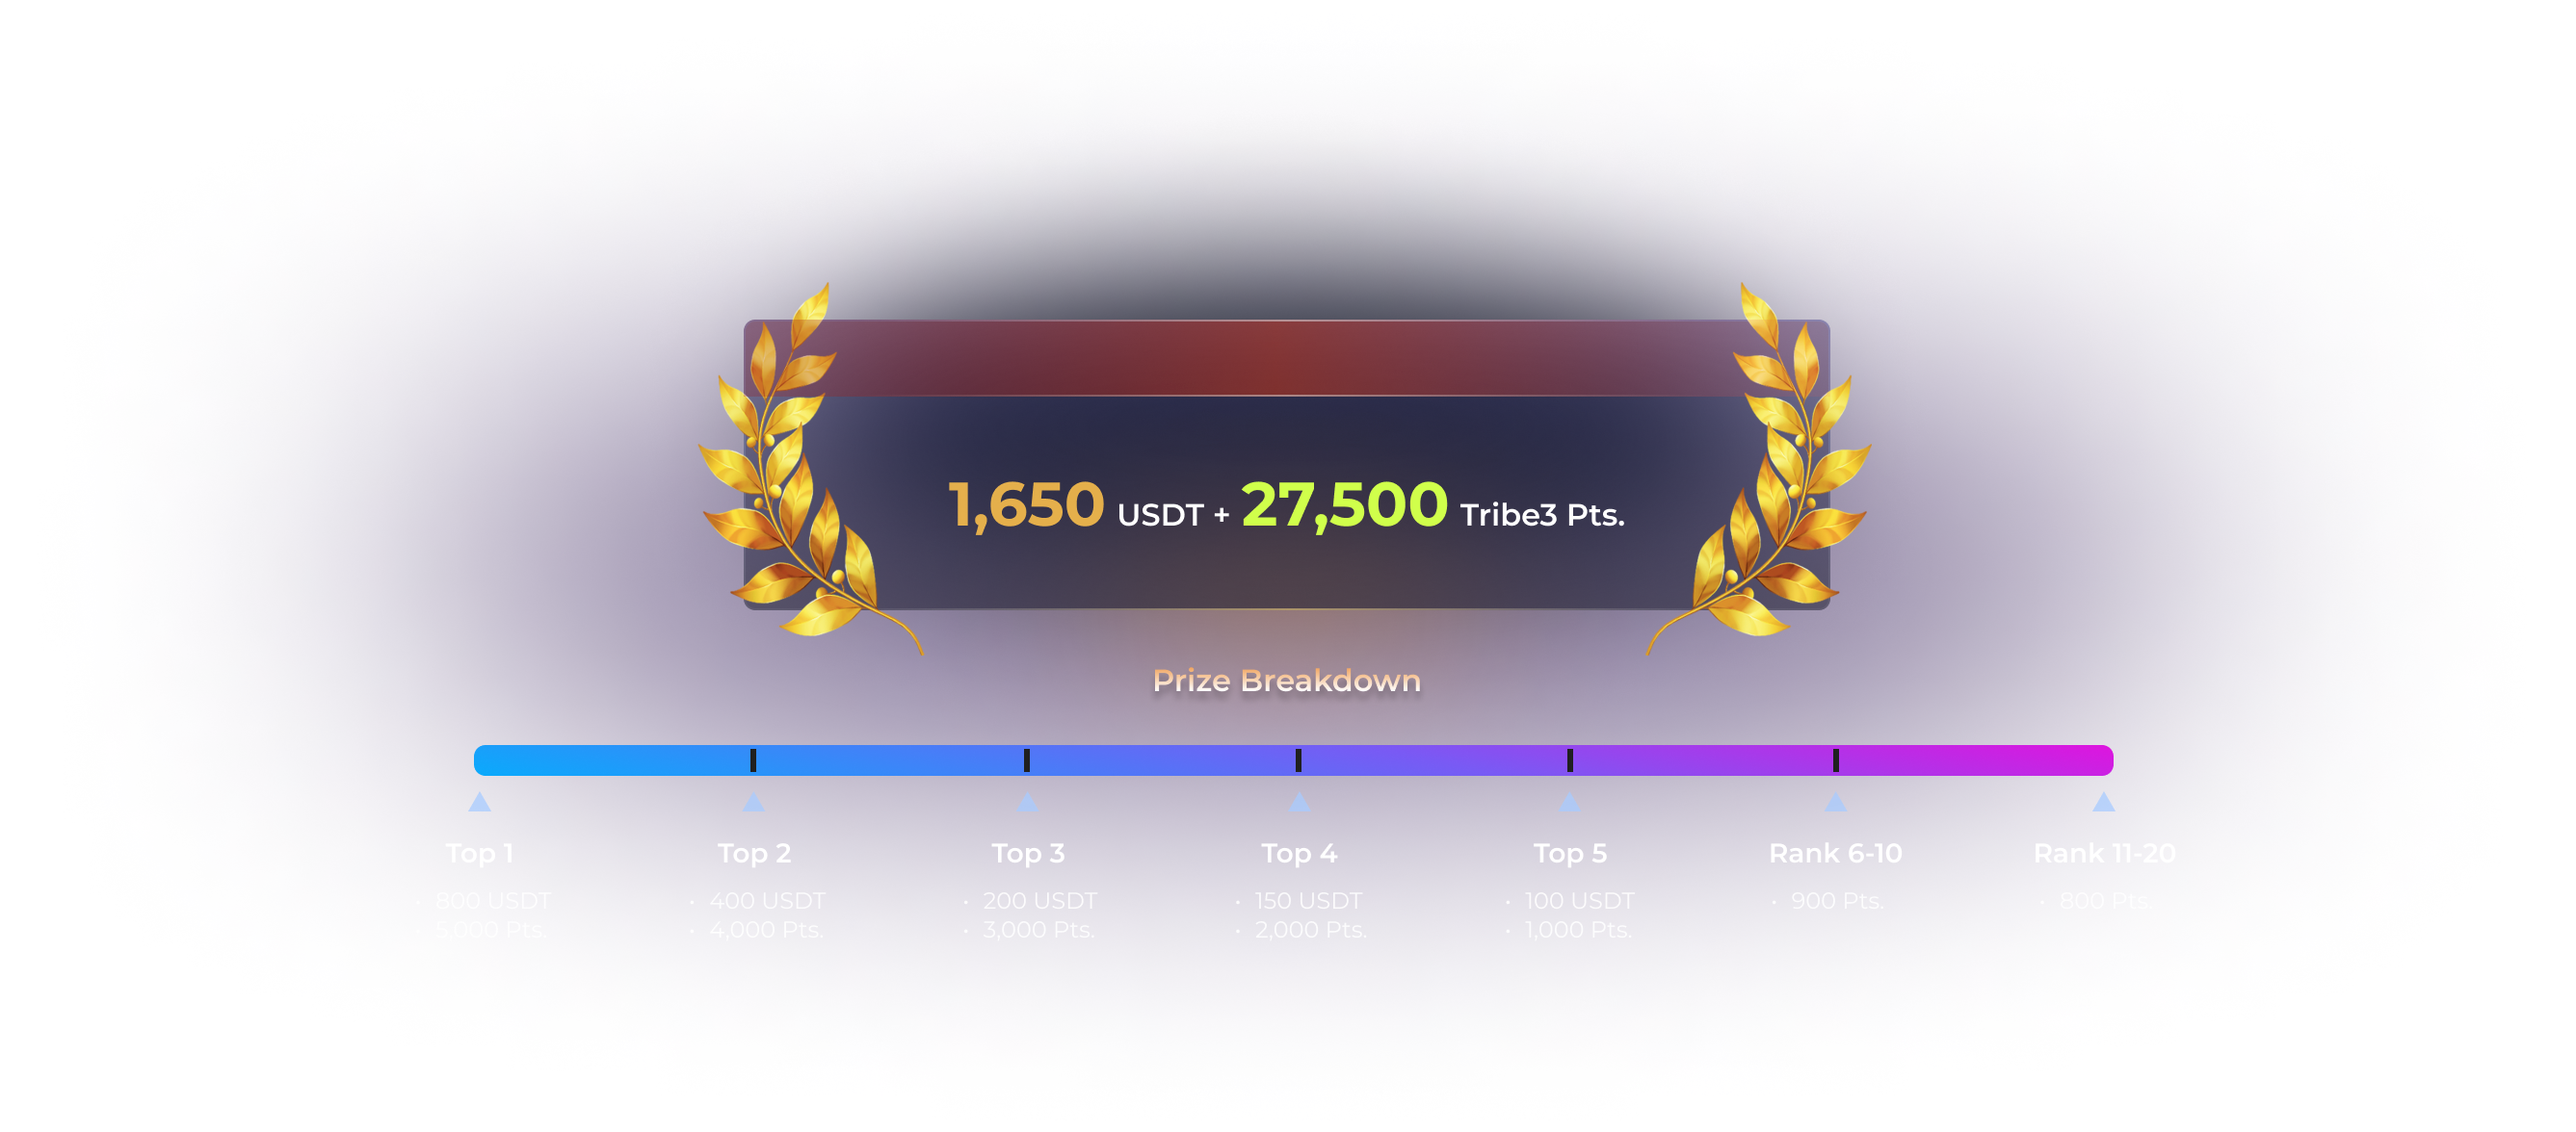
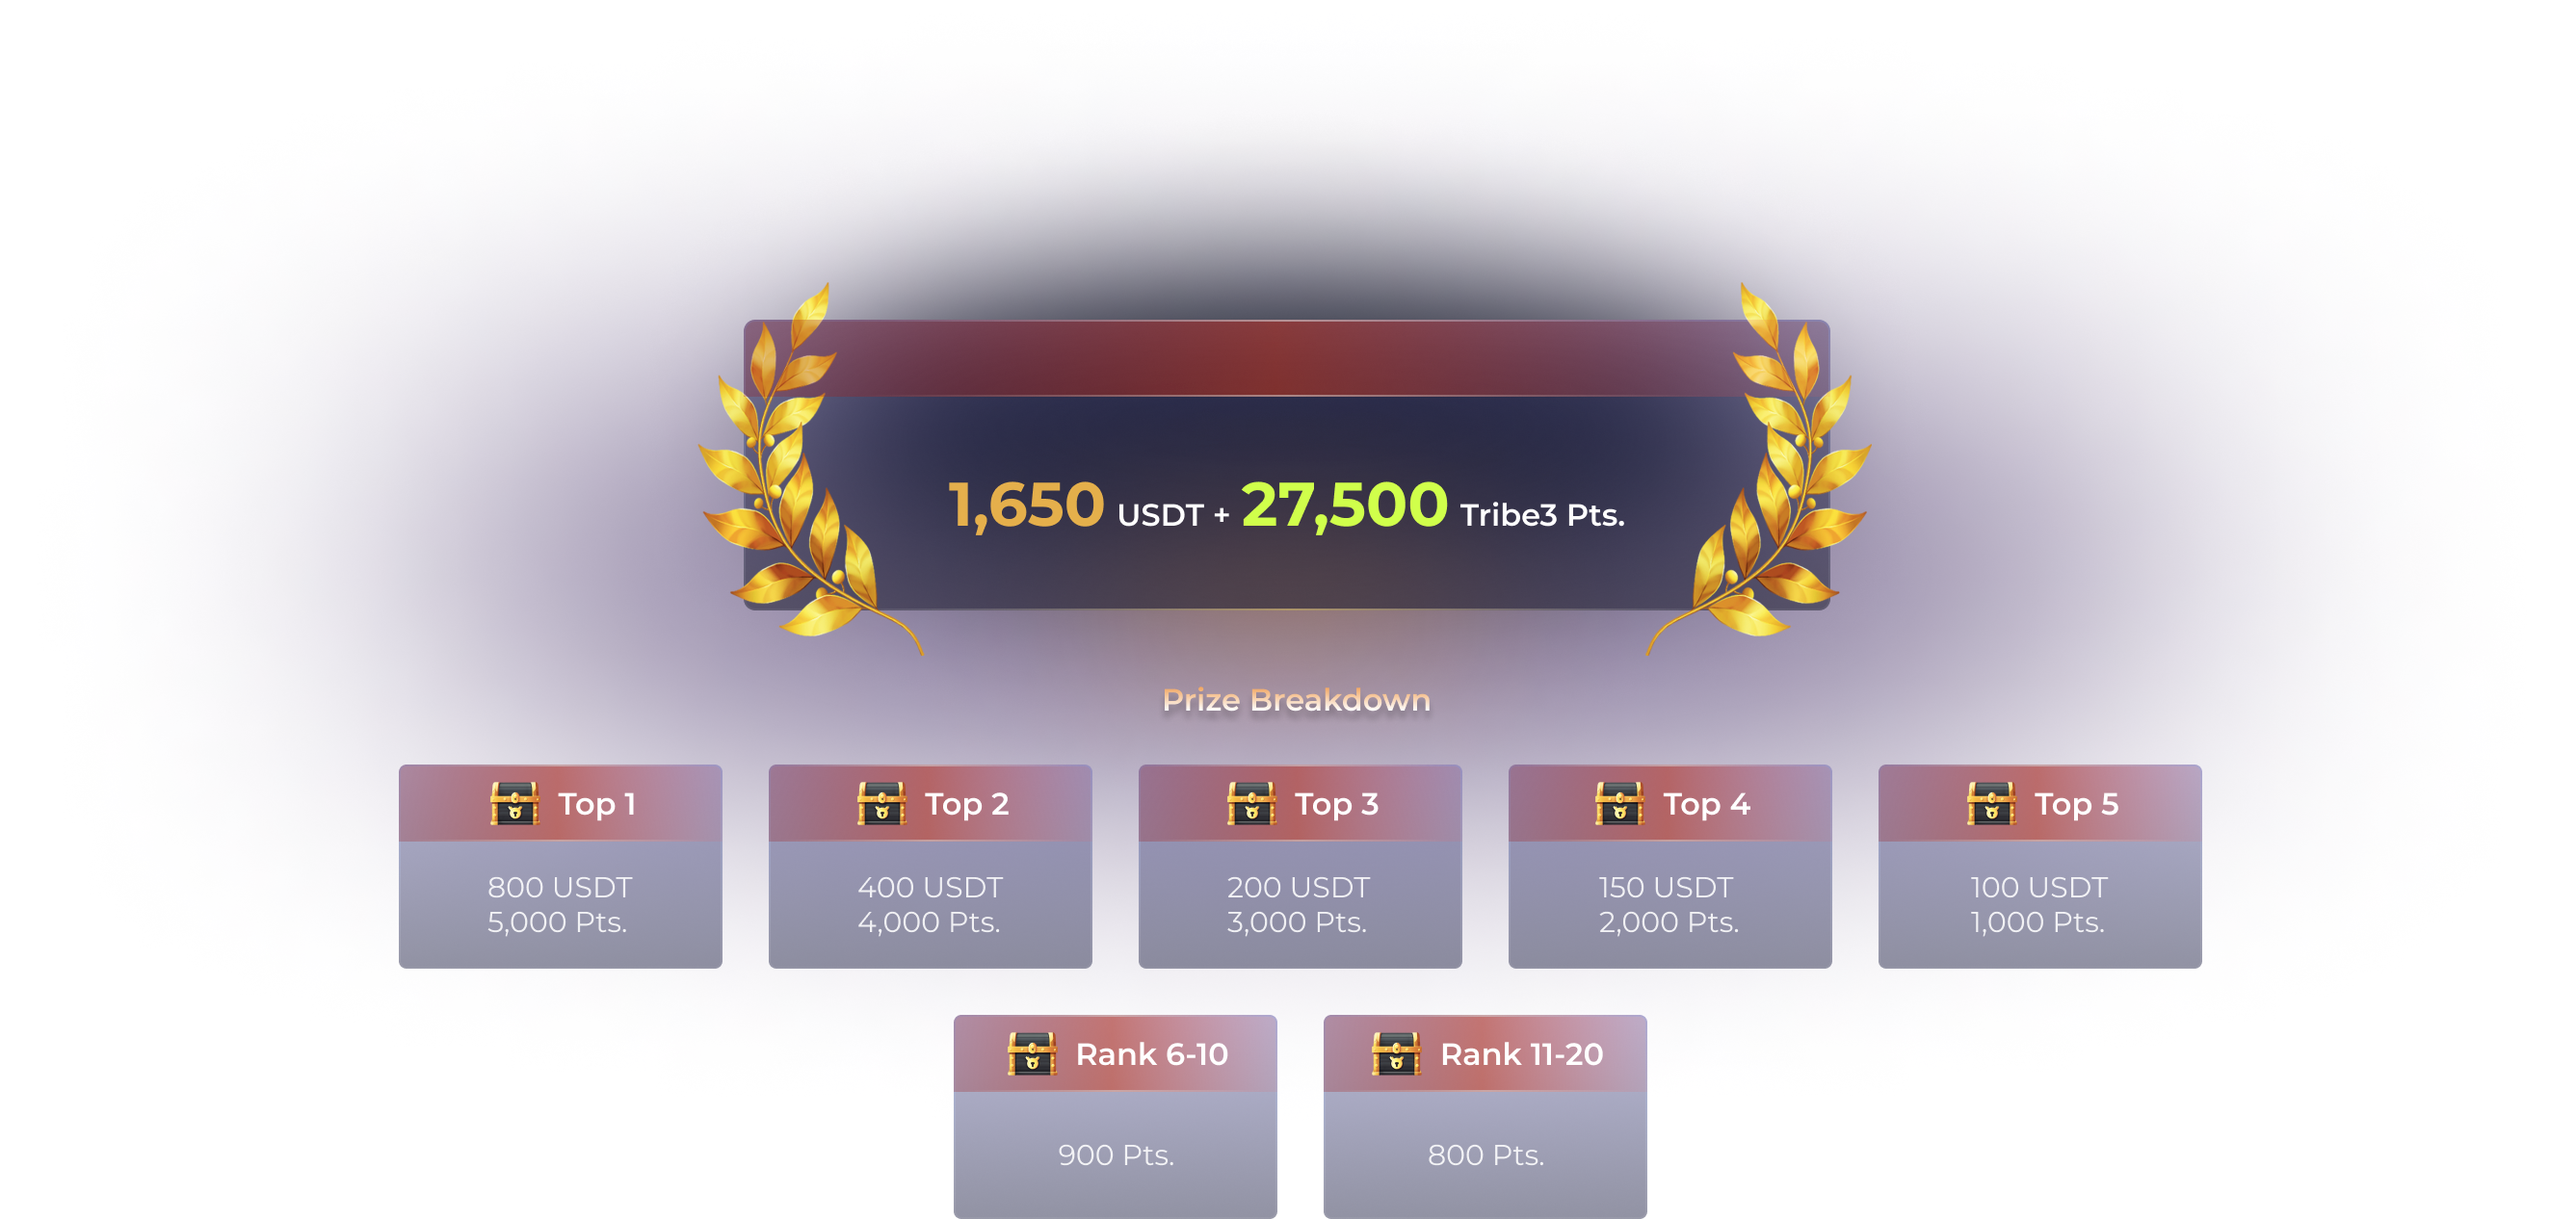
fix field and change image

Changed region(s): [[0.1552, 0.2143, 0.8691, 0.7959], [0.3725, 0.8265, 0.6518, 1.0]]

diff --git a/src/components/competition/revamp/TopReferrer/PrizePool.tsx b/src/components/competition/revamp/TopReferrer/PrizePool.tsx
@@ -1,109 +1,126 @@
 /* eslint-disable no-unused-vars */
 /* eslint-disable max-len */
 import { $isShowMobileMyReferrerTeam, $isShowMobileRules } from '@/stores/competition';
+import { $userIsConnected } from '@/stores/user';
+import { useStore } from '@nanostores/react';
 import Image from 'next/image';
 import React, { FC, PropsWithChildren } from 'react';
 
 const radialBgClassName =
   'from-[rgba(78,85,121,0.6)] to-darkBlue to-100% bg-[radial-gradient(circle_at_center,_var(--tw-gradient-stops))] lg:bg-[radial-gradient(farthest-side_at_center,_var(--tw-gradient-stops))] lg:to-transparent lg:to-85%';
 
-const PrizePool: FC<PropsWithChildren> = () => (
-  <div className="justify-center md:flex md:flex-col">
-    <div className="relative mb-24 hidden md:block">
-      <Image
-        className="pointer-events-none scale-[1.4] object-cover"
-        src="/images/components/competition/revamp/prize_topRefer_desktop.png"
-        width={937}
-        height={345}
-        alt=""
-      />
-      <div className="absolute top-[68px] flex w-full items-center justify-center lg:top-[80px] xl:top-[86px]">
-        <Image src="/images/components/competition/icons/animated-gift.gif" width={24} height={24} alt="" />
-        <p className="bg-gradient-to-b from-[#F0A45D] to-white bg-clip-text text-h5 font-bold text-transparent">
-          Total Prize Pool for Top Referrer
-        </p>
-      </div>
-    </div>
+const PrizePool: FC<PropsWithChildren> = () => {
+  const isConnected = useStore($userIsConnected);
 
-    <div className="relative overflow-clip md:hidden">
-      <div className="flex flex-col items-center">
+  return (
+    <div className="justify-center md:flex md:flex-col">
+      <div className="relative mb-24 hidden md:block">
         <Image
-          className="h-[400px] object-cover sm:scale-[1.3]"
-          src="/images/components/competition/revamp/prize_topRefer_mobile.png"
-          width={600}
-          height={300}
+          className="pointer-events-none scale-[1.4] object-cover"
+          src="/images/components/competition/revamp/prize_topRefer_desktop.png"
+          width={937}
+          height={345}
           alt=""
         />
-        <div className="absolute top-[100px] flex w-full items-center justify-center sm:top-[75px]">
+        <div className="absolute top-[68px] flex w-full items-center justify-center lg:top-[80px] xl:top-[86px]">
           <Image src="/images/components/competition/icons/animated-gift.gif" width={24} height={24} alt="" />
-          <p className="bg-gradient-to-b from-[#F0A45D] to-white bg-clip-text text-b2e text-transparent">
+          <p className="bg-gradient-to-b from-[#F0A45D] to-white bg-clip-text text-h5 font-bold text-transparent">
             Total Prize Pool for Top Referrer
           </p>
         </div>
       </div>
 
-      <div className="absolute bottom-0 w-full space-y-6 px-5 pb-9">
-        <div className="flex justify-center">
-          <div className="flex space-x-[3px] rounded-2xl bg-[#2E4371] px-3 py-[6px]">
-            <Image src="/images/components/competition/revamp/timer.svg" width={16} height={16} alt="" />
-            <p className="text-b3 text-highEmphasis">
-              Ends in: <span className="text-b3e">4d 3h 12m</span>
+      <div className="relative overflow-clip md:hidden">
+        <div className="flex flex-col items-center">
+          <Image
+            className="h-[400px] object-cover sm:scale-[1.3]"
+            src="/images/components/competition/revamp/prize_topRefer_mobile.png"
+            width={600}
+            height={300}
+            alt=""
+          />
+          <div className="absolute top-[100px] flex w-full items-center justify-center sm:top-[75px]">
+            <Image src="/images/components/competition/icons/animated-gift.gif" width={24} height={24} alt="" />
+            <p className="bg-gradient-to-b from-[#F0A45D] to-white bg-clip-text text-b2e text-transparent">
+              Total Prize Pool for Top Referrer
             </p>
           </div>
         </div>
-        <div className="flex items-center justify-between">
-          <div
-            className="flex space-x-[3px] text-primaryBlue"
-            onClick={() => {
-              $isShowMobileMyReferrerTeam.set(true);
-            }}>
-            <svg width="16" height="17" viewBox="0 0 16 17" fill="none" xmlns="http://www.w3.org/2000/svg">
-              <g clipPath="url(#clip0_17315_22649)">
+
+        <div className="absolute bottom-0 w-full space-y-6 px-5 pb-9">
+          {isConnected ? (
+            <div className="flex justify-center">
+              <div className="flex space-x-[3px] rounded-2xl bg-[#2E4371] px-3 py-[6px]">
+                <Image src="/images/components/competition/revamp/timer.svg" width={16} height={16} alt="" />
+                <p className="text-b3 text-highEmphasis">
+                  Ends in: <span className="text-b3e">4d 3h 12m</span>
+                </p>
+              </div>
+            </div>
+          ) : null}
+          <div className="flex items-center justify-between">
+            {isConnected ? (
+              <div
+                className="flex space-x-[3px] text-primaryBlue"
+                onClick={() => {
+                  $isShowMobileMyReferrerTeam.set(true);
+                }}>
+                <svg width="16" height="17" viewBox="0 0 16 17" fill="none" xmlns="http://www.w3.org/2000/svg">
+                  <g clipPath="url(#clip0_17315_22649)">
+                    <path
+                      d="M8 3.56982C5.5902 3.56982 3.63636 5.48579 3.63636 7.84889C3.63636 10.212 5.5902 12.128 8 12.128C10.4098 12.128 12.3636 10.212 12.3636 7.84889C12.3636 5.48579 10.4098 3.56982 8 3.56982ZM5.08523 9.26968H10.9148C10.3778 10.3227 9.28267 11.0582 8 11.0582C6.71733 11.0582 5.62216 10.3227 5.08523 9.26968ZM5.47727 12.8634C4.02113 13.2382 2.84949 14.0769 2.20215 15.7833C2.08513 16.0918 2.32547 16.407 2.65539 16.407H13.3446C13.6745 16.407 13.9149 16.0918 13.7979 15.7833C13.1505 14.0769 11.9789 13.2382 10.5227 12.8634C9.7706 13.2583 8.91193 13.4819 8 13.4819C7.08807 13.4819 6.2294 13.2583 5.47727 12.8634Z"
+                      fill="url(#paint0_linear_17315_22649)"
+                    />
+                    <path
+                      d="M9.67151 3.98837H6.32267L5.625 1.19767L7.02035 2.31395L7.99709 0.5L8.97384 2.31395L10.3692 1.19767L9.67151 3.98837Z"
+                      fill="#FFC107"
+                    />
+                  </g>
+                  <defs>
+                    <linearGradient
+                      id="paint0_linear_17315_22649"
+                      x1="15.908"
+                      y1="9.98843"
+                      x2="-0.0671589"
+                      y2="11.2854"
+                      gradientUnits="userSpaceOnUse">
+                      <stop stopColor="#F703D9" />
+                      <stop offset="0.427083" stopColor="#795AF4" />
+                      <stop offset="0.921875" stopColor="#04AEFC" />
+                    </linearGradient>
+                    <clipPath id="clip0_17315_22649">
+                      <rect width="16" height="16" fill="white" transform="translate(0 0.5)" />
+                    </clipPath>
+                  </defs>
+                </svg>
+                <p className="text-b2e">My Referrer</p>
+              </div>
+            ) : (
+              <div className="flex space-x-[3px] rounded-2xl bg-[#2E4371] px-3 py-[6px]">
+                <Image src="/images/components/competition/revamp/timer.svg" width={16} height={16} alt="" />
+                <p className="text-b3 text-highEmphasis">
+                  Ends in: <span className="text-b3e">4d 3h 12m</span>
+                </p>
+              </div>
+            )}
+            <div
+              className="flex space-x-[3px] text-primaryBlue"
+              onClick={() => {
+                $isShowMobileRules.set(true);
+              }}>
+              <svg width="16" height="17" viewBox="0 0 16 17" fill="none" xmlns="http://www.w3.org/2000/svg">
                 <path
-                  d="M8 3.56982C5.5902 3.56982 3.63636 5.48579 3.63636 7.84889C3.63636 10.212 5.5902 12.128 8 12.128C10.4098 12.128 12.3636 10.212 12.3636 7.84889C12.3636 5.48579 10.4098 3.56982 8 3.56982ZM5.08523 9.26968H10.9148C10.3778 10.3227 9.28267 11.0582 8 11.0582C6.71733 11.0582 5.62216 10.3227 5.08523 9.26968ZM5.47727 12.8634C4.02113 13.2382 2.84949 14.0769 2.20215 15.7833C2.08513 16.0918 2.32547 16.407 2.65539 16.407H13.3446C13.6745 16.407 13.9149 16.0918 13.7979 15.7833C13.1505 14.0769 11.9789 13.2382 10.5227 12.8634C9.7706 13.2583 8.91193 13.4819 8 13.4819C7.08807 13.4819 6.2294 13.2583 5.47727 12.8634Z"
-                  fill="url(#paint0_linear_17315_22649)"
+                  className="fill-primaryBlue"
+                  d="M12.0002 10.5V4.5C12.0002 3.39533 11.1048 2.5 10.0002 2.5H3.3335C2.22883 2.5 1.3335 3.39533 1.3335 4.5V5.83333C1.3335 6.20133 1.63216 6.5 2.00016 6.5H3.3335V12.5C3.3335 13.6047 4.22883 14.5 5.3335 14.5H12.6668C13.7715 14.5 14.6668 13.6047 14.6668 12.5V11.1667C14.6668 10.7987 14.3682 10.5 14.0002 10.5H12.0002ZM10.0002 8.5C10.0002 8.868 9.7015 9.16667 9.3335 9.16667H6.00016C5.63216 9.16667 5.3335 8.868 5.3335 8.5C5.3335 8.132 5.63216 7.83333 6.00016 7.83333H9.3335C9.7015 7.83333 10.0002 8.132 10.0002 8.5ZM10.0002 11.1667C10.0002 11.5347 9.7015 11.8333 9.3335 11.8333H6.00016C5.63216 11.8333 5.3335 11.5347 5.3335 11.1667C5.3335 10.7987 5.63216 10.5 6.00016 10.5H9.3335C9.7015 10.5 10.0002 10.7987 10.0002 11.1667ZM2.66683 4.5C2.66683 4.132 2.96616 3.83333 3.3335 3.83333H8.11416C8.04083 4.042 8.00016 4.266 8.00016 4.5V5.16667H2.66683V4.5ZM13.3335 12.5C13.3335 12.868 13.0342 13.1667 12.6668 13.1667C12.2995 13.1667 12.0002 12.868 12.0002 12.5V11.8333H13.3335V12.5Z"
                 />
-                <path
-                  d="M9.67151 3.98837H6.32267L5.625 1.19767L7.02035 2.31395L7.99709 0.5L8.97384 2.31395L10.3692 1.19767L9.67151 3.98837Z"
-                  fill="#FFC107"
-                />
-              </g>
-              <defs>
-                <linearGradient
-                  id="paint0_linear_17315_22649"
-                  x1="15.908"
-                  y1="9.98843"
-                  x2="-0.0671589"
-                  y2="11.2854"
-                  gradientUnits="userSpaceOnUse">
-                  <stop stopColor="#F703D9" />
-                  <stop offset="0.427083" stopColor="#795AF4" />
-                  <stop offset="0.921875" stopColor="#04AEFC" />
-                </linearGradient>
-                <clipPath id="clip0_17315_22649">
-                  <rect width="16" height="16" fill="white" transform="translate(0 0.5)" />
-                </clipPath>
-              </defs>
-            </svg>
-            <p className="text-b2e">My Referrer</p>
-          </div>
-          <div
-            className="flex space-x-[3px] text-primaryBlue"
-            onClick={() => {
-              $isShowMobileRules.set(true);
-            }}>
-            <svg width="16" height="17" viewBox="0 0 16 17" fill="none" xmlns="http://www.w3.org/2000/svg">
-              <path
-                className="fill-primaryBlue"
-                d="M12.0002 10.5V4.5C12.0002 3.39533 11.1048 2.5 10.0002 2.5H3.3335C2.22883 2.5 1.3335 3.39533 1.3335 4.5V5.83333C1.3335 6.20133 1.63216 6.5 2.00016 6.5H3.3335V12.5C3.3335 13.6047 4.22883 14.5 5.3335 14.5H12.6668C13.7715 14.5 14.6668 13.6047 14.6668 12.5V11.1667C14.6668 10.7987 14.3682 10.5 14.0002 10.5H12.0002ZM10.0002 8.5C10.0002 8.868 9.7015 9.16667 9.3335 9.16667H6.00016C5.63216 9.16667 5.3335 8.868 5.3335 8.5C5.3335 8.132 5.63216 7.83333 6.00016 7.83333H9.3335C9.7015 7.83333 10.0002 8.132 10.0002 8.5ZM10.0002 11.1667C10.0002 11.5347 9.7015 11.8333 9.3335 11.8333H6.00016C5.63216 11.8333 5.3335 11.5347 5.3335 11.1667C5.3335 10.7987 5.63216 10.5 6.00016 10.5H9.3335C9.7015 10.5 10.0002 10.7987 10.0002 11.1667ZM2.66683 4.5C2.66683 4.132 2.96616 3.83333 3.3335 3.83333H8.11416C8.04083 4.042 8.00016 4.266 8.00016 4.5V5.16667H2.66683V4.5ZM13.3335 12.5C13.3335 12.868 13.0342 13.1667 12.6668 13.1667C12.2995 13.1667 12.0002 12.868 12.0002 12.5V11.8333H13.3335V12.5Z"
-              />
-            </svg>
-            <p className="text-b2e">Rules</p>
+              </svg>
+              <p className="text-b2e">Rules</p>
+            </div>
           </div>
         </div>
       </div>
     </div>
-  </div>
-);
+  );
+};
 
 export default PrizePool;

diff --git a/src/components/competition/revamp/TopReferrer.tsx b/src/components/competition/revamp/TopReferrer.tsx
@@ -81,7 +81,7 @@ const TopReferrer = () => {
       }
     },
     {
-      label: 'No. of Member',
+      label: 'No. of Referee',
       className: 'hidden md:block basis-1/3 lg:basis-1/6',
       render(row) {
         return <p className="text-b2e text-highEmphasis">{row.refereeCount}</p>;
@@ -101,7 +101,7 @@ const TopReferrer = () => {
             }>
             <Image src="/images/components/airdrop/more-info.svg" width={12} height={12} alt="" />
           </Tooltip>
-          <p>Team Trad. Vol.</p>
+          <p>Referee‘s Total Trading Vol.</p>
         </div>
       ),
       className: 'pr-5 lg:p-0 basis-1/3 lg:basis-1/5 text-right lg:text-center',
@@ -184,12 +184,12 @@ const TopReferrer = () => {
         rank={pos}
         className={`${pos === 2 || pos === 3 ? 'mt-8' : ''} min-w-[200px]`}
         title={<p className={`mb-4 text-h5 ${nameColor}`}>{trimString(rank.username, 12) || trimAddress(rank.userAddress)}</p>}>
-        <p className="mb-[6px] text-b3 text-mediumEmphasis">Team Trad. Vol.</p>
+        <p className="mb-[6px] text-b3 text-mediumEmphasis">Referee‘s Total Trading Vol.</p>
         <div className="mb-3 flex space-x-1">
           <Image src="/images/common/symbols/eth-tribe3.svg" width={16} height={16} alt="" />
           <p className="text-b2e">{val.toFixed(2)}</p>
         </div>
-        <p className="mb-[6px] text-b3 text-mediumEmphasis">No. of Member</p>
+        <p className="mb-[6px] text-b3 text-mediumEmphasis">No. of Referee</p>
         <p className="text-b2e">{rank.refereeCount}</p>
         <div className="my-4 h-[1px] w-full bg-[#2E4371]" />
         <p className="mb-[6px] text-b3 text-mediumEmphasis">Team Prize</p>
@@ -197,6 +197,7 @@ const TopReferrer = () => {
       </TopThree.Item>
     );
   };
+
   return (
     <div className="relative">
       <FloatingWidget.Container>
@@ -233,8 +234,12 @@ const TopReferrer = () => {
       </div>
 
       <div className="hidden space-y-32 md:block">
-        <MyTeam />
-        <MyReferrersTeam />
+        {isConnected ? (
+          <>
+            <MyTeam />
+            <MyReferrersTeam />
+          </>
+        ) : null}
         <Rules />
       </div>
 
